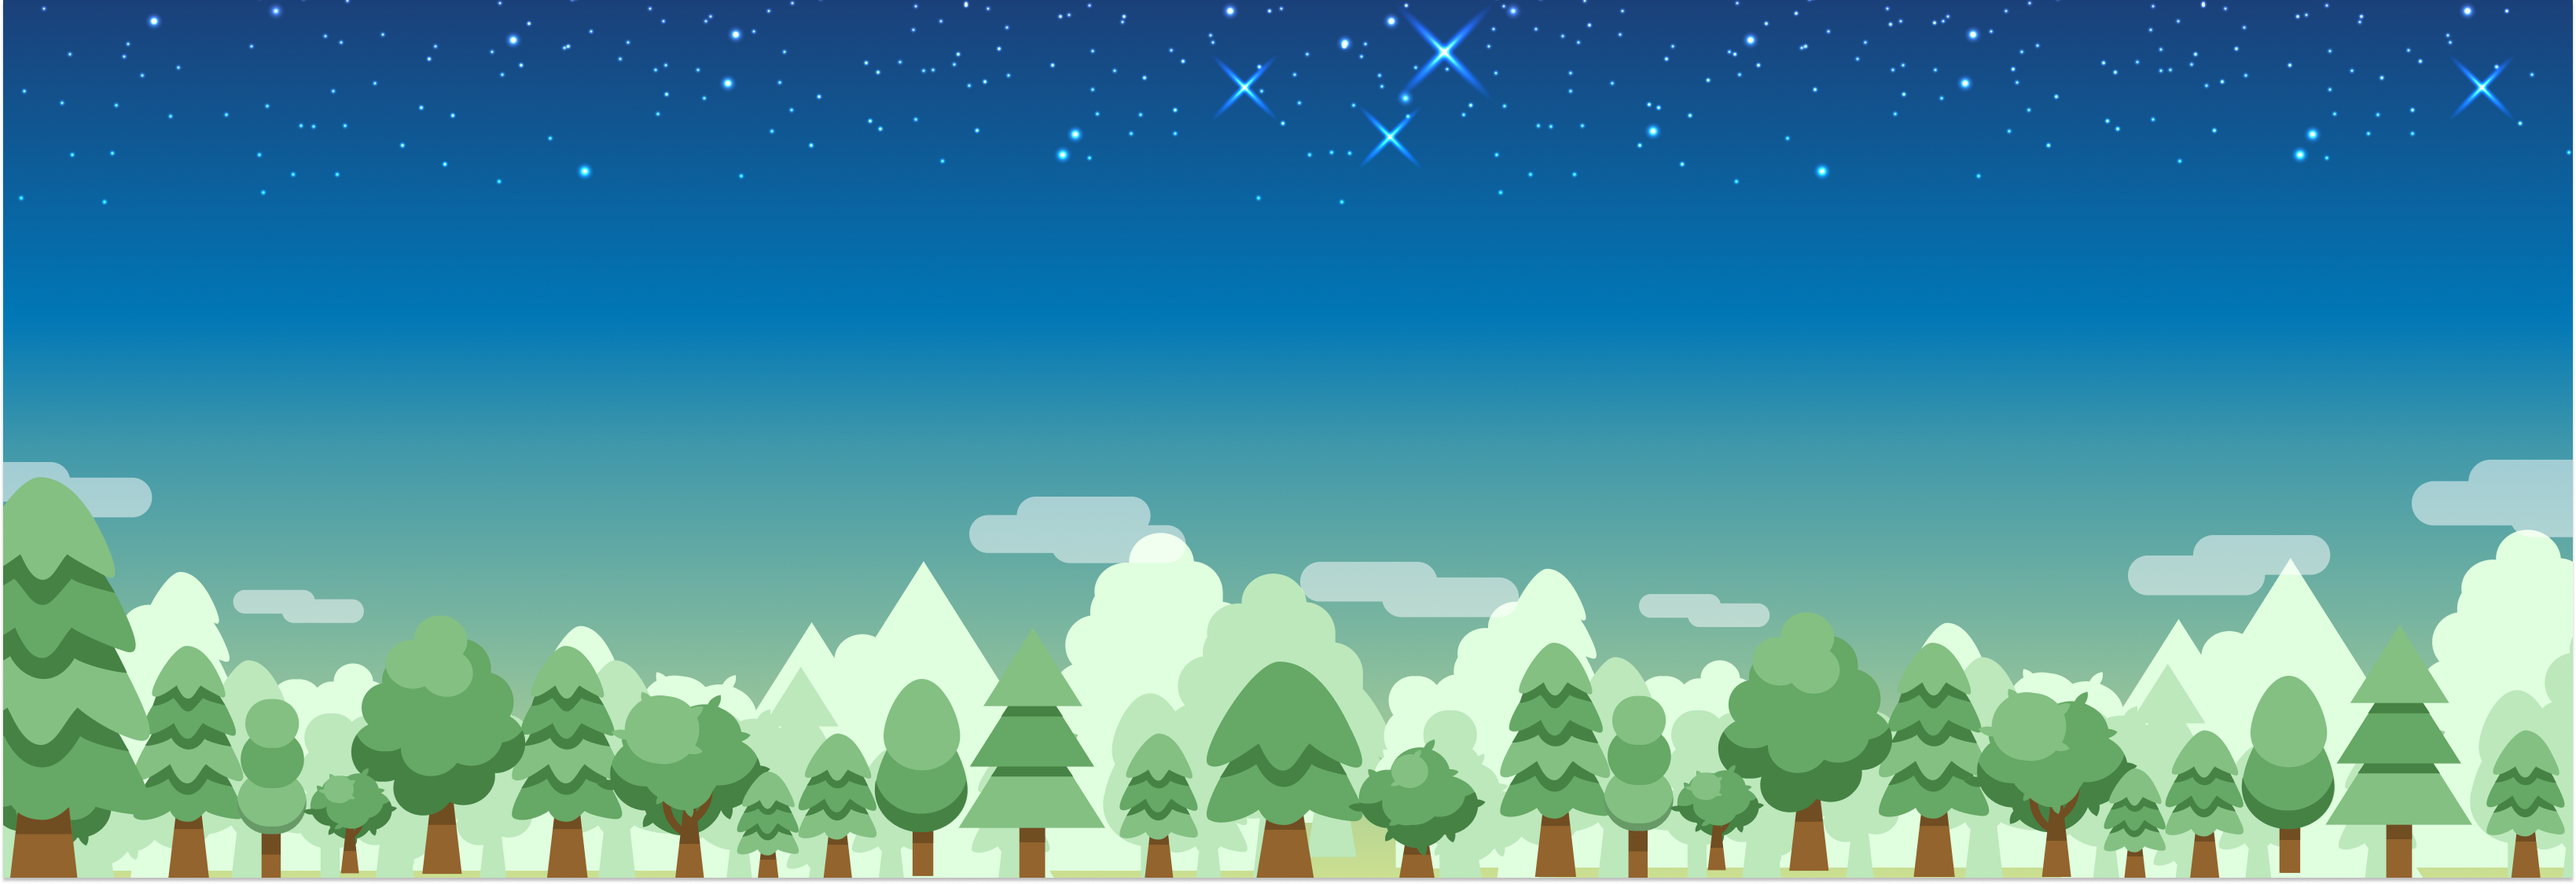
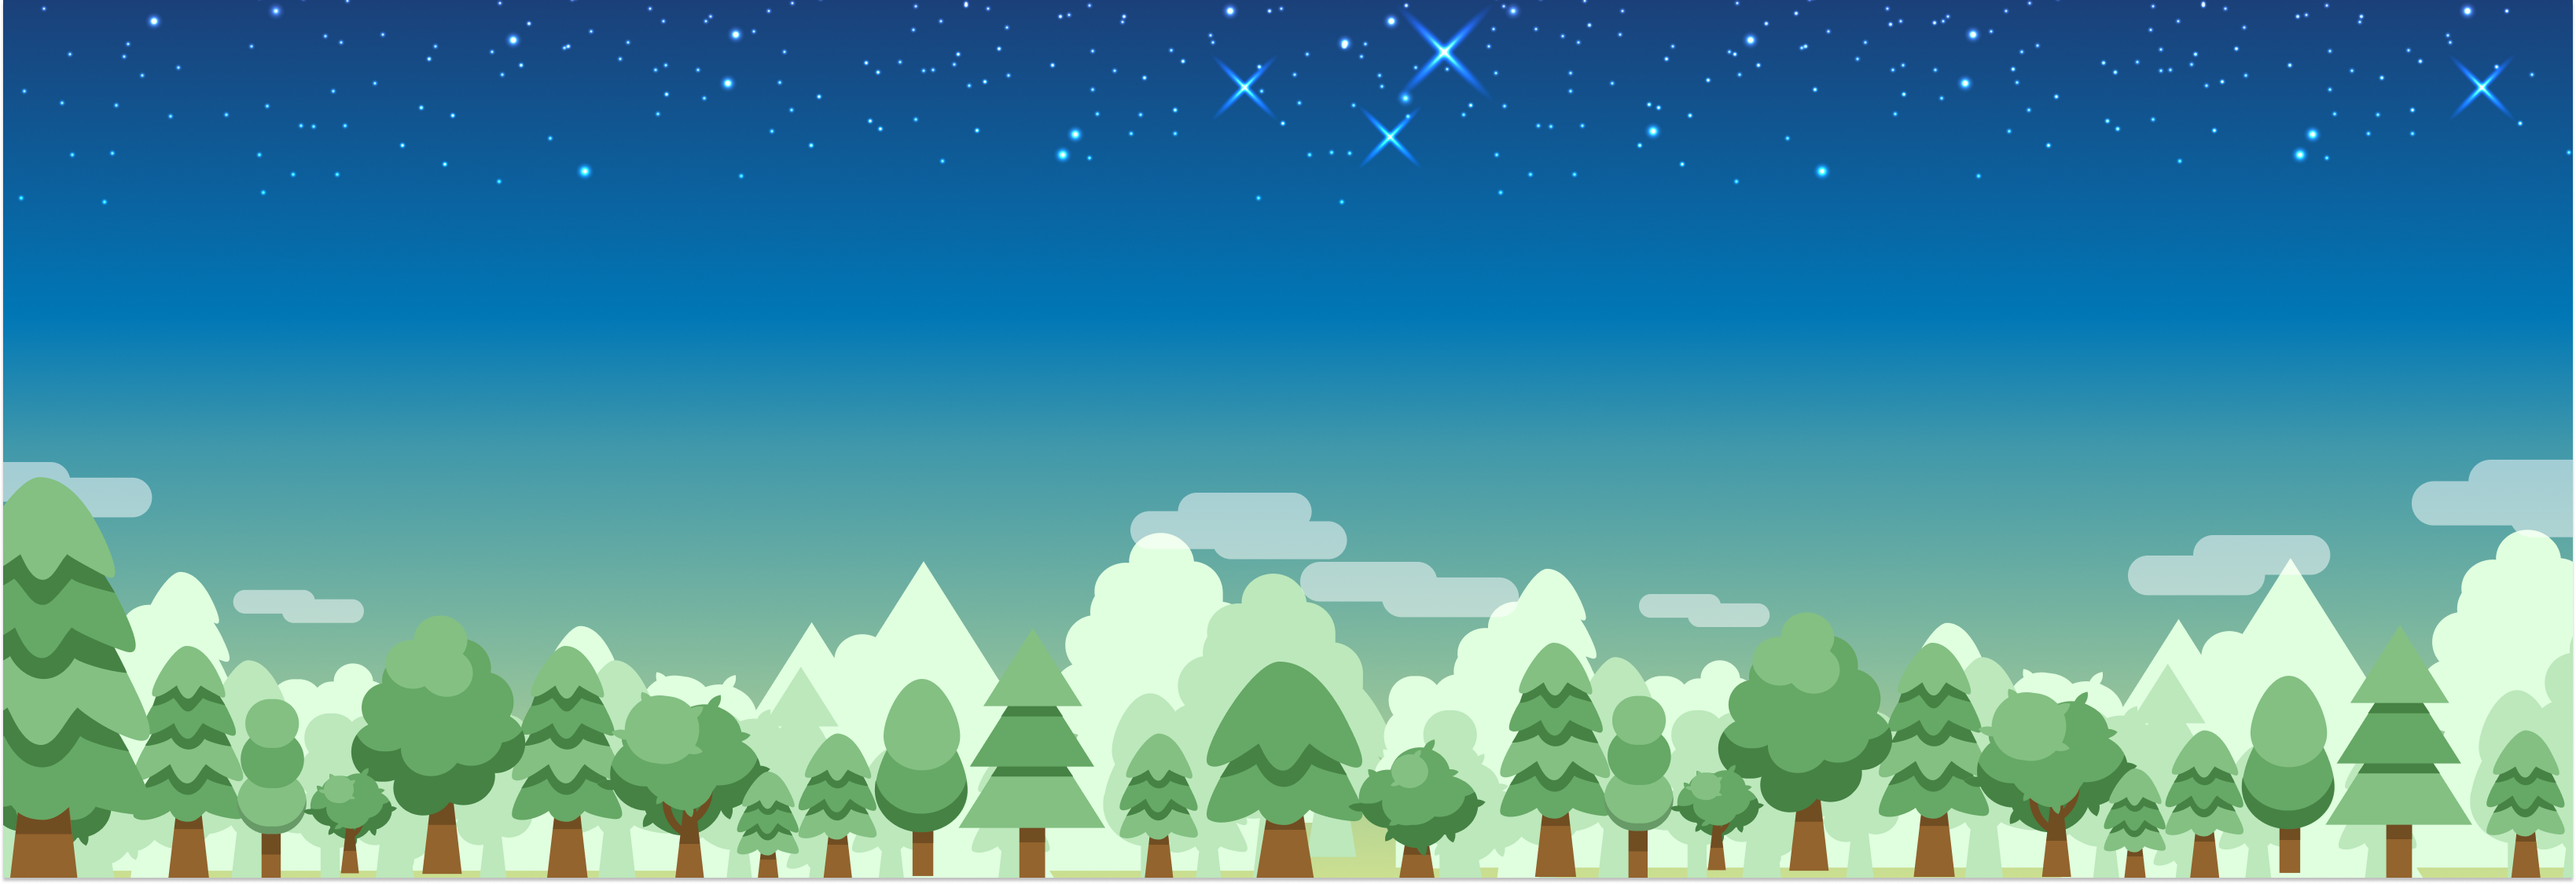
resolved render issue

Changed region(s): [[0.3735, 0.56, 0.5291, 0.6533]]

diff --git a/client/src/components/pages/LoginPage.jsx b/client/src/components/pages/LoginPage.jsx
@@ -5,6 +5,8 @@ import { useNavigate } from "react-router-dom";
 import "../../utilities.css";
 import "./LoginPage.css";
 import { UserContext } from "../App";
+import TwinklingStars from "../modules/TwinklingStars";
+import MovingClouds from "../modules/MovingClouds";
 
 const LoginPage = () => {
   const { userId, handleLogin, handleLogout } = useContext(UserContext);
@@ -17,21 +19,25 @@ const LoginPage = () => {
   }, [userId, navigate]);
 
   return (
-    <div className = "LoginPage-container">
-      <h1>TreeTrek</h1>
-      <div className = "LoginPage-button">
-        {userId ? (
-          <button
-            onClick={() => {
-              googleLogout();
-              handleLogout();
-            }}
-          >
-            Logout
-          </button>
-        ) : (
-          <GoogleLogin onSuccess={handleLogin} onError={(err) => console.log(err)} />
-        )}
+    <div>  
+      <TwinklingStars />
+      <MovingClouds />
+      <div className = "LoginPage-container">
+        <h1>TreeTrek</h1>
+        <div className = "LoginPage-button">
+          {userId ? (
+            <button
+              onClick={() => {
+                googleLogout();
+                handleLogout();
+              }}
+            >
+              Logout
+            </button>
+          ) : (
+            <GoogleLogin onSuccess={handleLogin} onError={(err) => console.log(err)} />
+          )}
+        </div>
       </div>
     </div>
   );

diff --git a/client/src/components/pages/FindLobby.css b/client/src/components/pages/FindLobby.css
@@ -9,7 +9,7 @@
   top: 50%;
   left: 50%;
   transform: translate(-50%, -50%);
-  background-color: aliceblue;
+  background-color: #59814b;
   opacity: 0.8;
   border-radius: 15px;
 }
@@ -22,22 +22,32 @@
 
 .input-box {
   border-radius: 10px;
-  width: 300px;
+  width: 296px;
   height: 70px;
   text-align: center;
-  font-size: 20px;
+  font-size: 35px;
+  border-width: 4px;
+  border-color: #29457c;
+  font-family: "Micro 5", serif;
 }
 
 .lobby-container button {
   border-radius: 10px;
-  font-size: 30px;
+  color: #29457c;
+  font-size: 35px;
   width: 307px;
   padding: 25px;
   font-weight: bold;
   letter-spacing: 5px;
+  border-width: 4px;
+  border-color: #29457c;
+  background-color: aliceblue;
+  transition: all 0.1s ease-in-out;
+  cursor: pointer;
+  box-shadow: 0 4px #29457c;
 }
 
-.create-button {
+/* .create-button {
   padding: 5px;
   margin: 5px;
 }
@@ -45,4 +55,16 @@
 .join-button {
   padding: 5px;
   margin: 5px;
+} */
+
+/* When hovering, make it look pressed */
+.lobby-container button:hover {
+  transform: translateY(2px);
+  box-shadow: 0 2px #1d6a9d;
+}
+
+/* When clicking, make it press down more */
+.lobby-container button:active {
+  transform: translateY(4px);
+  box-shadow: 0 0 #1d6a9d;
 }

diff --git a/client/src/components/pages/GameOverS.jsx b/client/src/components/pages/GameOverS.jsx
@@ -2,6 +2,7 @@ import React, { useState, useEffect } from 'react'
 import { get, post } from "../../utilities";
 import { useNavigate } from "react-router-dom";
 import NavBar from "../modules/NavBar";
+import TwinklingStars from '../modules/TwinklingStars';
 
 import "../../utilities.css";
 import './GameOver.css';
@@ -21,6 +22,7 @@ const GameOverS = () => {
     return (
         <div>
             <NavBar />
+            <TwinklingStars />
             <div className = "GameOver">
                 <div className = "GameOver-title">
                     Game Over!

diff --git a/client/src/components/pages/LobbyS.jsx b/client/src/components/pages/LobbyS.jsx
@@ -50,6 +50,9 @@ const LobbyS = () => {
             <NavBar />
             <div className="character-selection">
                 <h1>Character Selection</h1>
+                {/* <div className="decor">
+                    <img src = "/butterflygif.gif" alt="butterflygif"/>
+                </div> */}
                 <div className="character-selection-options">
                     <button className="left-button" onClick={handlePrevious}></button>
                     <div className="character-container">

diff --git a/client/src/components/modules/NavBar.css b/client/src/components/modules/NavBar.css
@@ -3,7 +3,7 @@
   font-size: 50px;
   letter-spacing: 10px;
   position: absolute;
-  top: 14px;
+  top: 18px;
   left: 16px;
   background: none;
   border: none;
@@ -17,7 +17,7 @@
   border: none;
   cursor: pointer;
   position: absolute;
-  top: 14px;
+  top: 18px;
   right: 16px;
   font-size: 50px;
   letter-spacing: 10px;

diff --git a/server/api.js b/server/api.js
@@ -11,7 +11,7 @@ const express = require("express");
 
 // import models so we can interact with the database
 const User = require("./models/user");
-const Leader = require("./models/Leader");
+const Leader = require("./models/leader");
 const Lobby = require("./models/lobby");
 
 // import authentication library

diff --git a/client/src/components/pages/FindLobby.jsx b/client/src/components/pages/FindLobby.jsx
@@ -3,7 +3,7 @@ import { get, post } from "../../utilities";
 import { useNavigate } from 'react-router-dom';
 import Navbar from "../modules/NavBar";
 import "./FindLobby.css";
-
+import "../../utilities.css";
 
 const FindLobby = () => {
   const [lobbyCode, setLobbyCode] = useState('');

diff --git a/server/models/leader.js b/server/models/leader.js
@@ -6,5 +6,6 @@ const LeaderSchema = new mongoose.Schema({
   highestGame: Number,
 });
 
-// compile model from schema
-module.exports = mongoose.model("leader", LeaderSchema);
+const Leader = mongoose.model("leader", LeaderSchema);
+
+module.exports = Leader;

diff --git a/server/models/user.js b/server/models/user.js
@@ -7,5 +7,6 @@ const UserSchema = new mongoose.Schema({
   lastGame: Number,
 });
 
-// compile model from schema
-module.exports = mongoose.model("user", UserSchema);
+const User = mongoose.model("user", UserSchema);
+
+module.exports = User;
